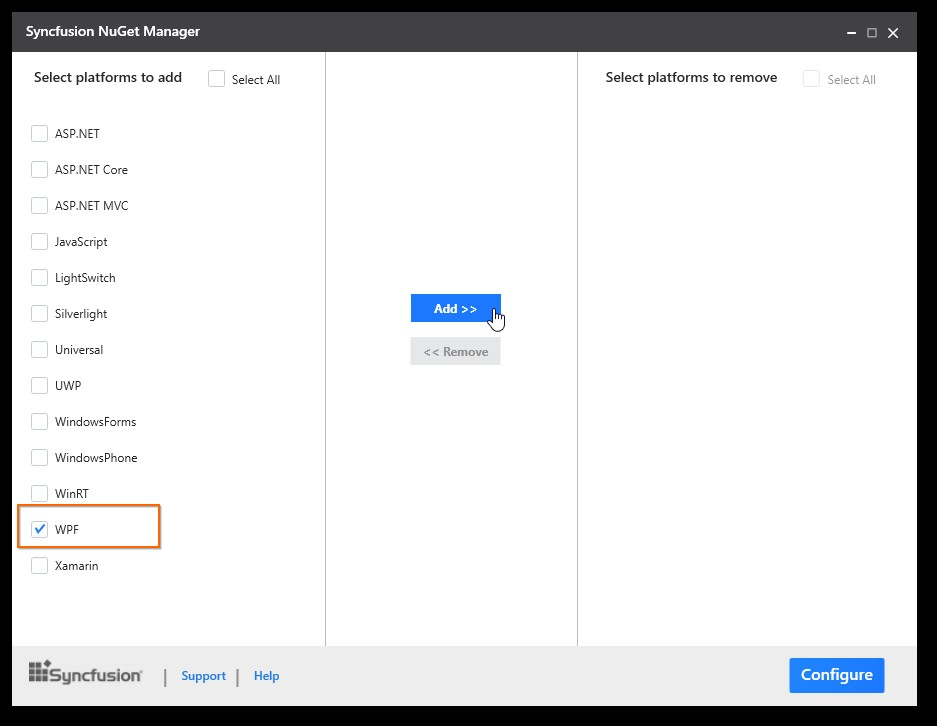
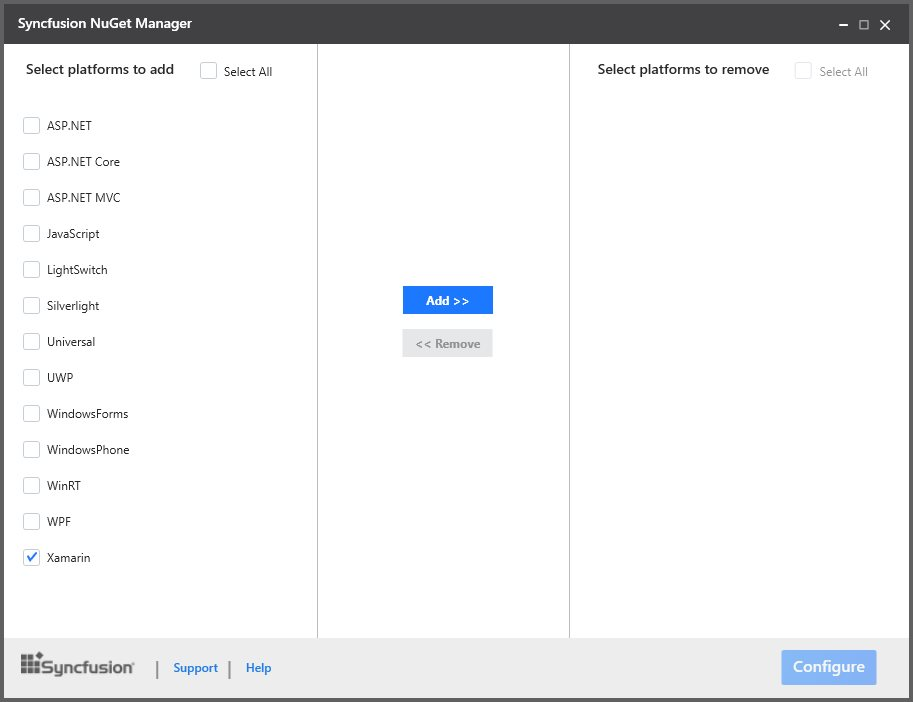
EXT-2153 Modified Syncfusion Nuget Manager Screenshot in NuGet Configuration (Xamarin)

Changed region(s): [[0.0, 0.0, 1.0, 1.0], [0.4294, 0.3889, 0.552, 0.4487], [0.4294, 0.4786, 0.552, 0.5085]]

diff --git a/Xamarin/Introduction/Download-And-Installation.md b/Xamarin/Introduction/Download-And-Installation.md
@@ -58,9 +58,9 @@ The following steps help you configure Syncfusion NuGet Packages with a URL.
 1. **Syncfusion NuGet Manager** is allows you to **add** the Syncfusion NuGet sources (for available platforms) to NuGet Package Manager. Download the [Syncfusion NuGet Manager](http://www.syncfusion.com/downloads/support/directtrac/general/ze/SyncfusionNugetManager-1610952973.zip) utility.
 2. Extract zip file and run the SyncfusionNuGetManager.exe
 3. Syncfusion NuGet Manager Window will be opened.
-4. Select the platform **WPF** (or required platform) from **“Select platforms to add”** (Left side of the window) column and click **Add>>** button. Then click **Configure** button.
+4. Select the platform **Xamarin** from **“Select platforms to add”** (Left side of the window) column and click **Add>>** button. Then click **Configure** button.
 
-   ![](images/Syncfusion_NuGet_Manager_img2.jpg)
+   ![](images/Syncfusion_NuGet_Manager_img1.jpg)
 
 5. Once Syncfusion NuGet Manager added the Syncfusion NuGet sources, the changes will be reflected in package sources of your Visual Studio. 
 
